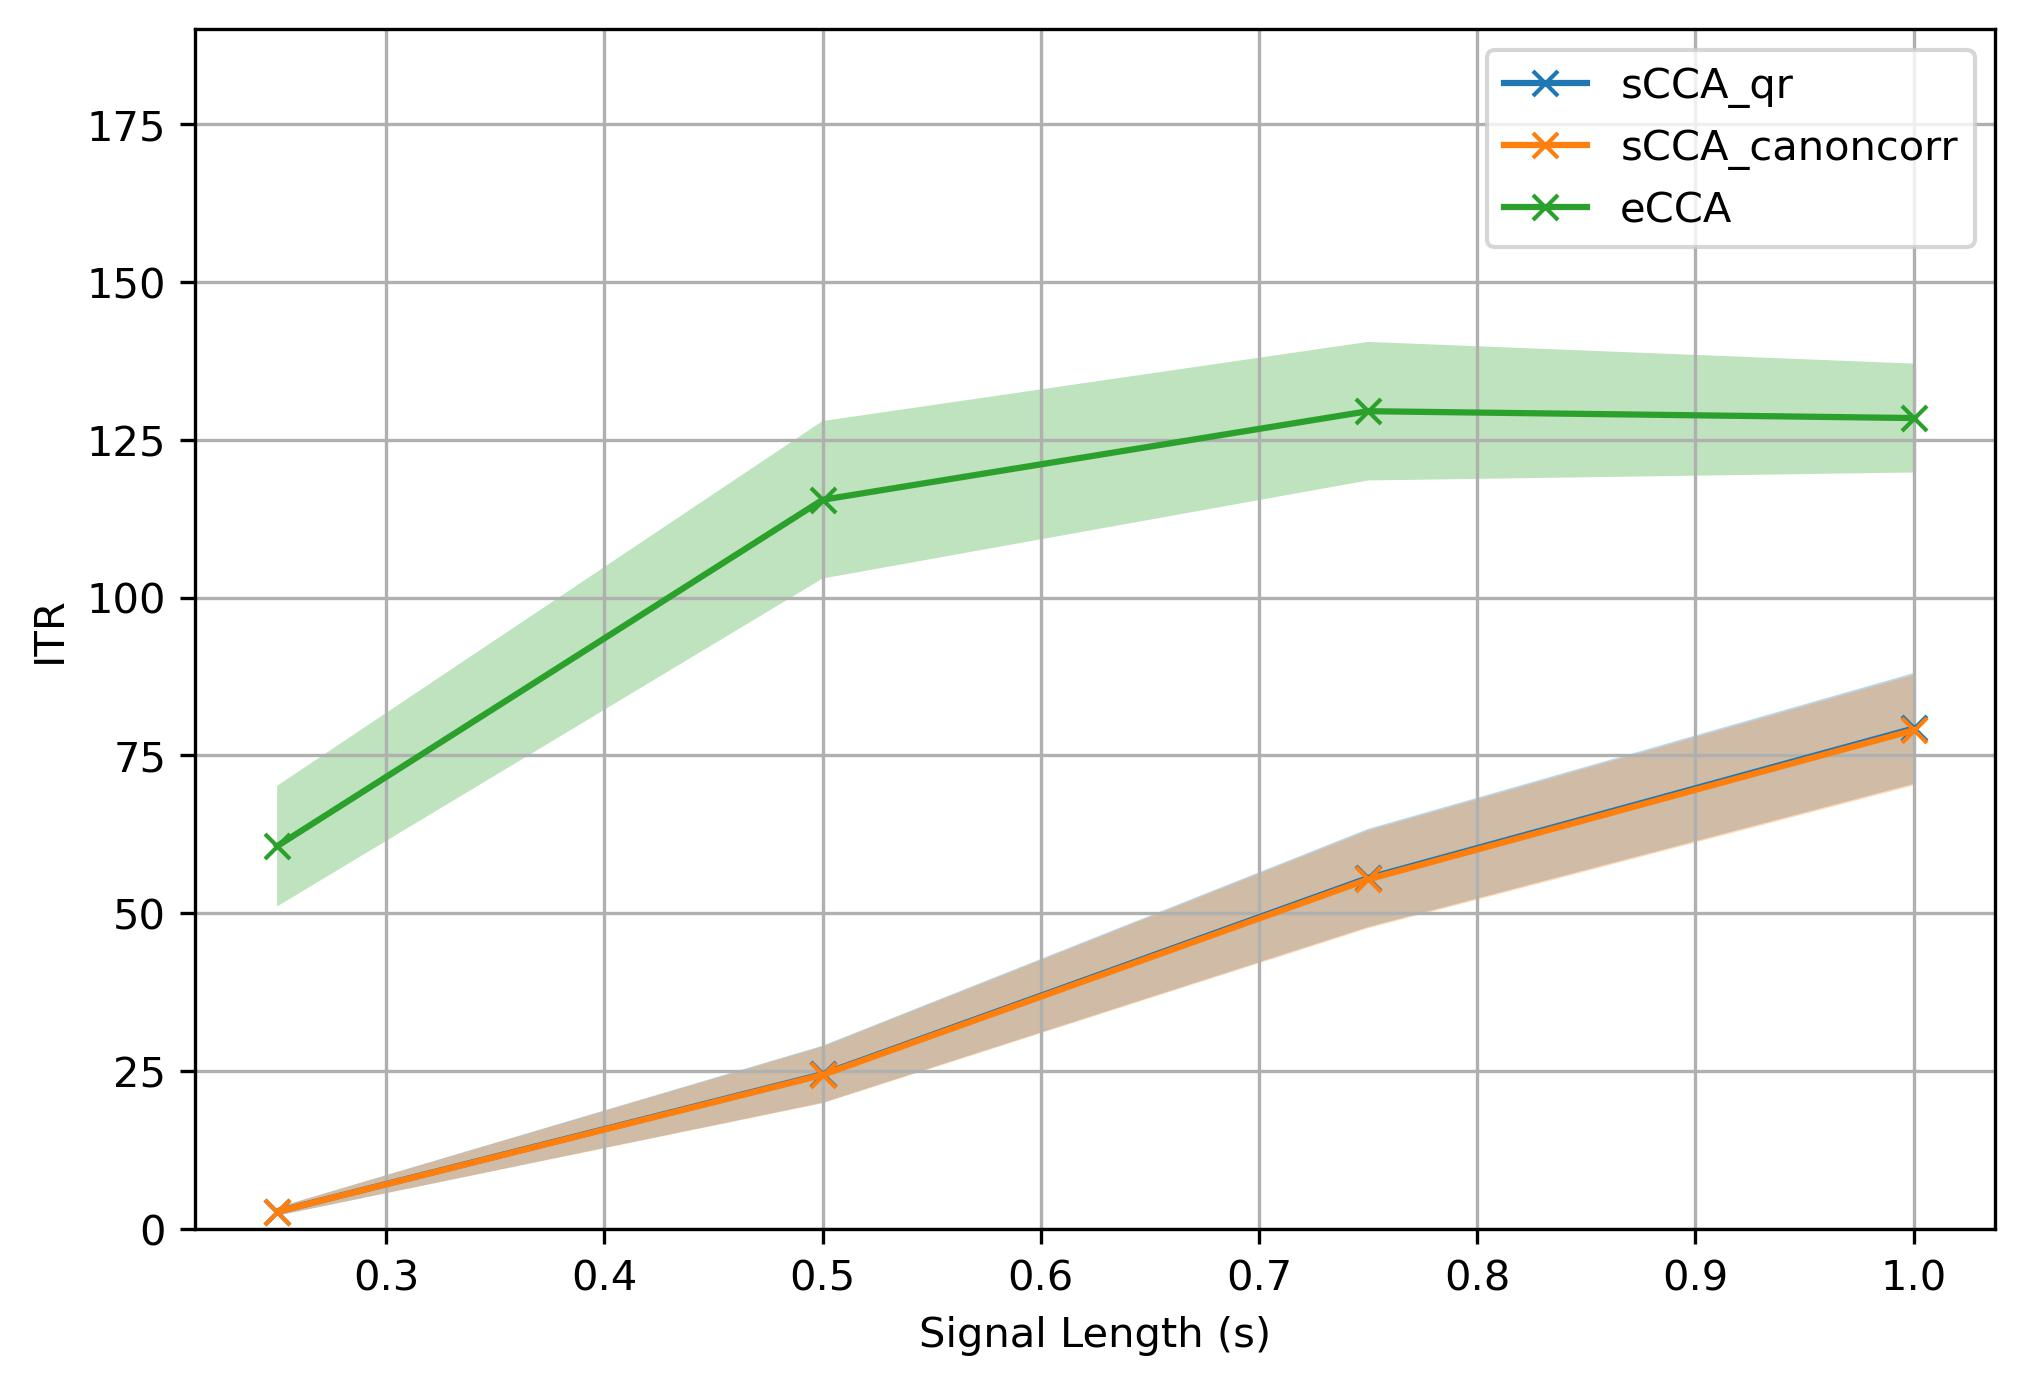
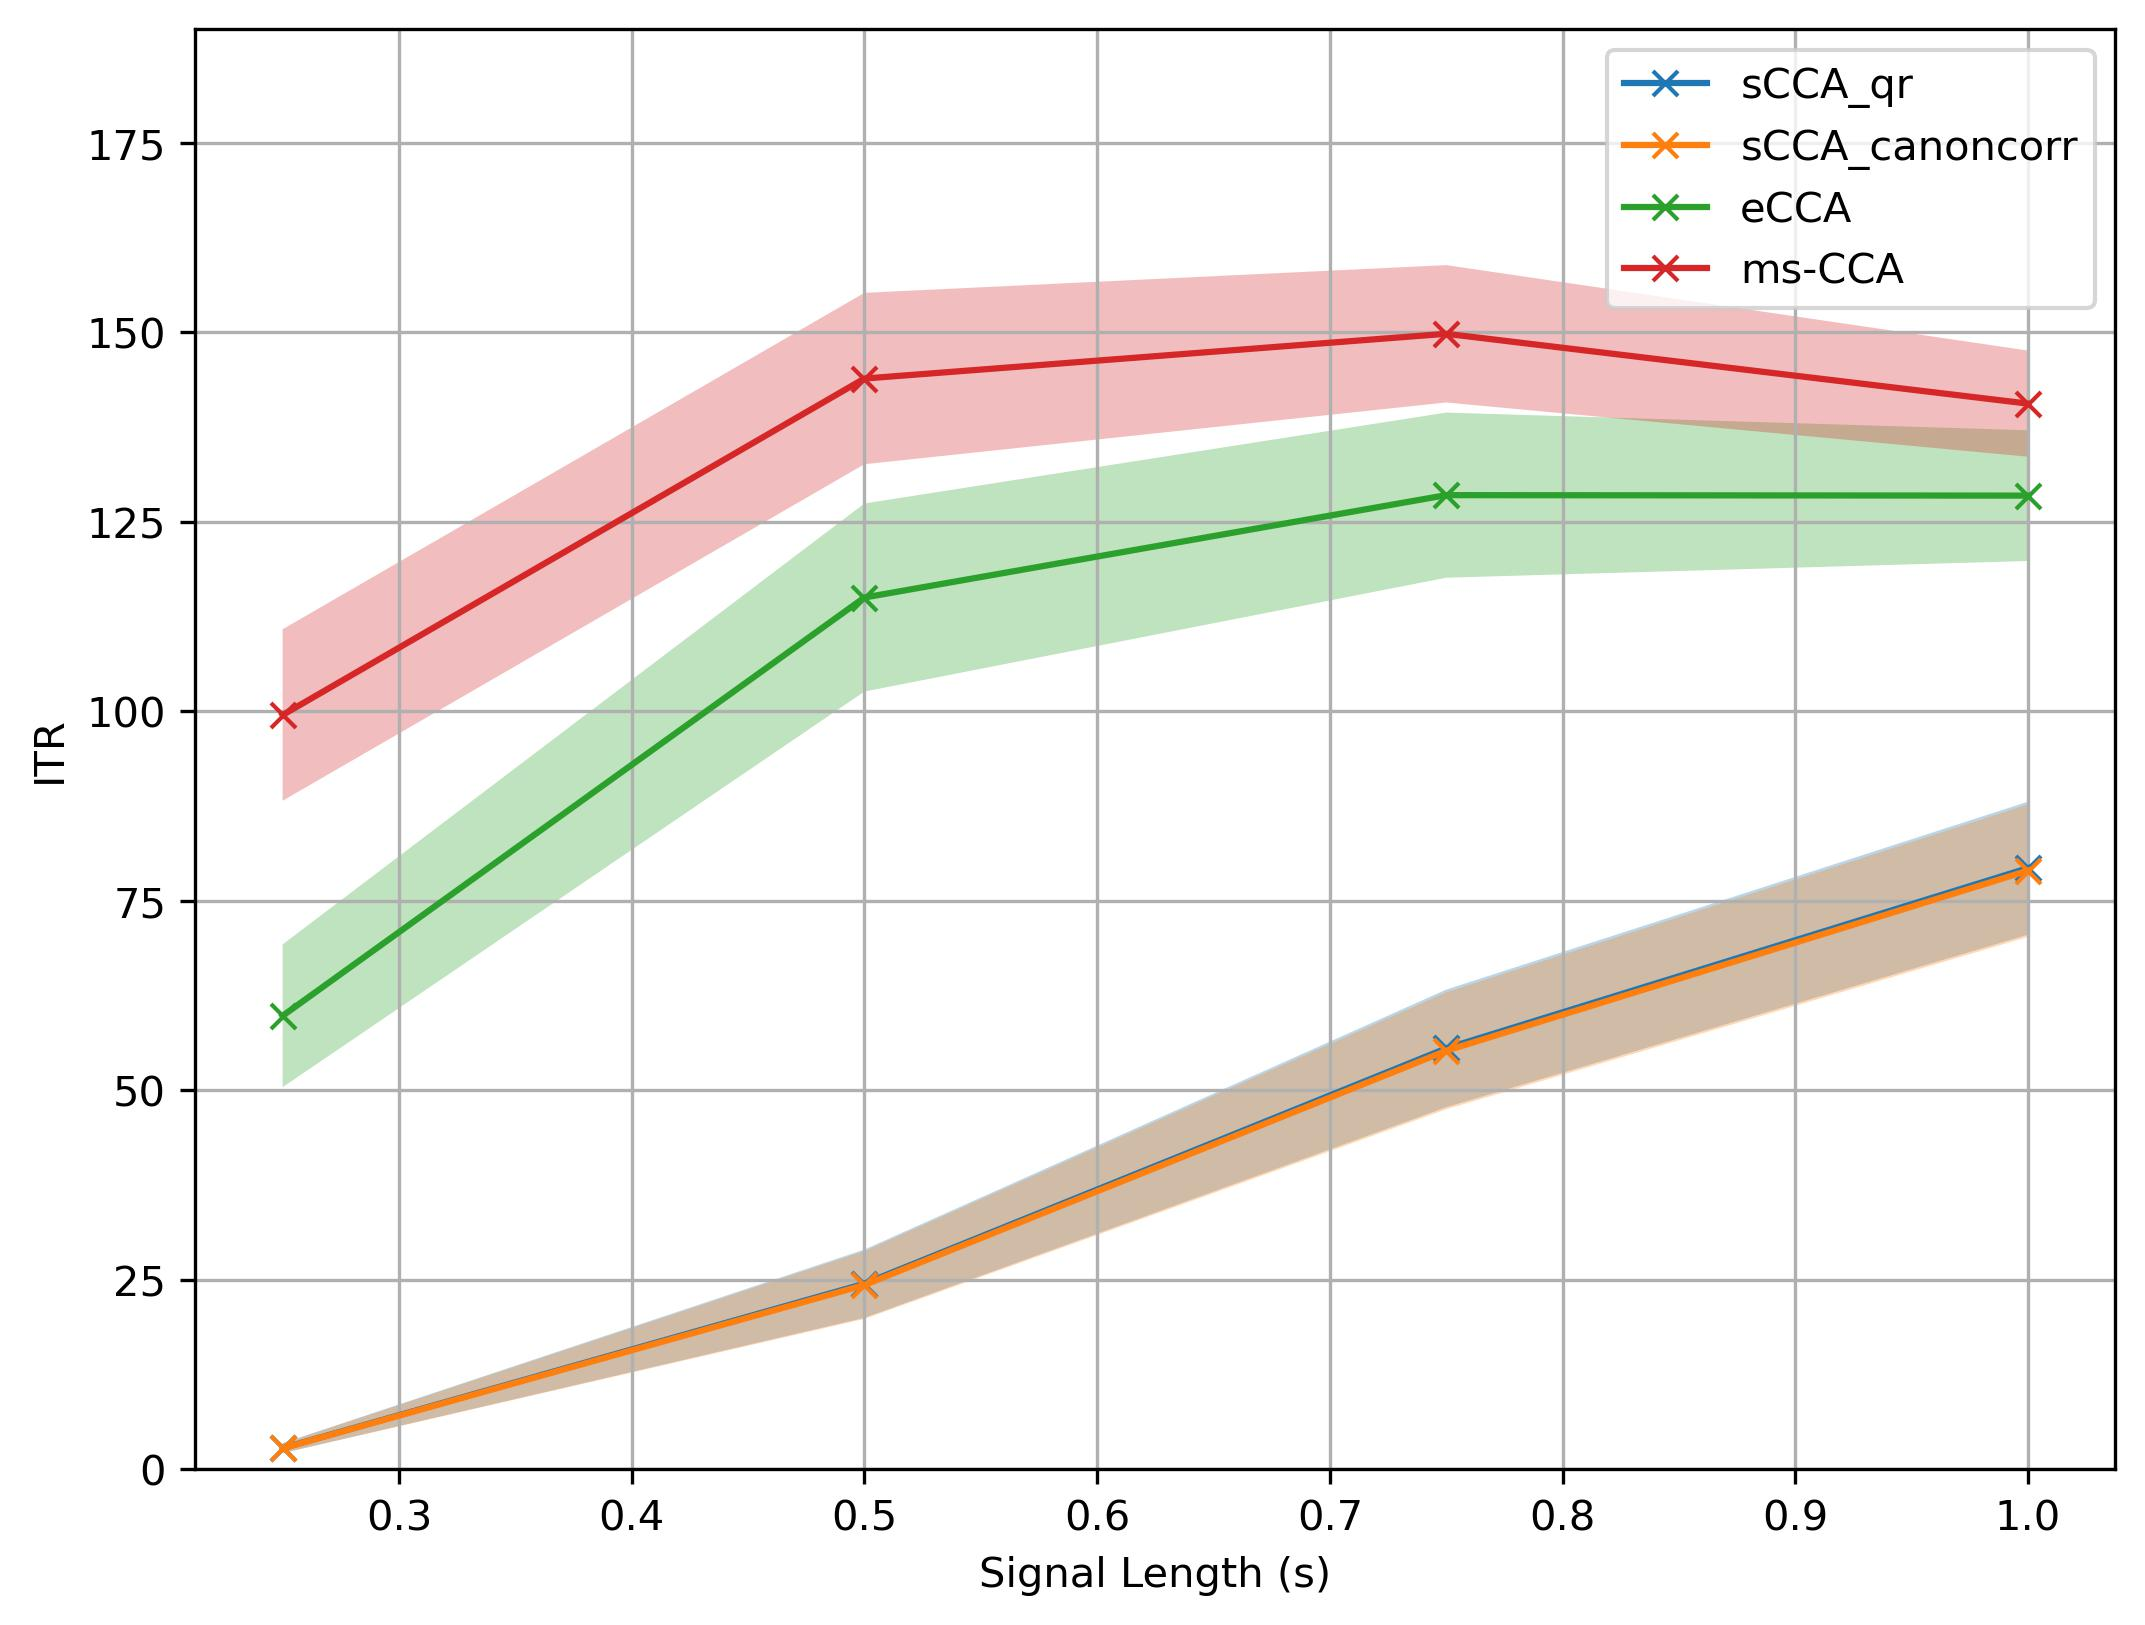
Add mscca

diff --git a/SSVEPAnalysisToolbox/algorithms/cca.py b/SSVEPAnalysisToolbox/algorithms/cca.py
@@ -699,3 +699,113 @@ class ECCA(BaseModel):
                                                         np.sign(r4_single) * np.square(r4_single)))) for r1_single, r2_single, r3_single, r4_single in zip(r1, r2, r3, r4)]
         
         return Y_pred
+
+class MSCCA(BaseModel):
+    """
+    ms-CCA
+    """
+    def __init__(self,
+                 n_neighbor: int = 12,
+                 n_component: int = 1,
+                 n_jobs: Optional[int] = None,
+                 weights_filterbank: Optional[List[float]] = None):
+        """
+        Special parameter
+        ------------------
+        n_neighbor: int
+            Number of neighbors considered for computing spatical filter
+        """
+        super().__init__(ID = 'ms-CCA',
+                         n_component = n_component,
+                         n_jobs = n_jobs,
+                         weights_filterbank = weights_filterbank)
+        self.n_neighbor = n_neighbor
+        
+        self.model['U'] = None
+        self.model['V'] = None
+        
+    def __copy__(self):
+        copy_model = MSCCA(n_component = self.n_component,
+                            n_jobs = self.n_jobs,
+                            weights_filterbank = self.model['weights_filterbank'])
+        copy_model.model = deepcopy(self.model)
+        return copy_model
+        
+    def fit(self,
+            X: Optional[List[ndarray]] = None,
+            Y: Optional[List[int]] = None,
+            ref_sig: Optional[List[ndarray]] = None):
+        if ref_sig is None:
+            raise ValueError('eCCA requires sine-cosine-based reference signal')
+        if Y is None:
+            raise ValueError('eCCA requires training label')
+        if X is None:
+            raise ValueError('eCCA requires training data')
+        
+        # save reference
+        self.model['ref_sig'] = ref_sig
+
+        # generate template 
+        template_sig = gen_template(X, Y) # List of shape: (stimulus_num,); 
+                                           # Template shape: (filterbank_num, channel_num, signal_len)
+        self.model['template_sig'] = template_sig
+
+        # spatial filters of template and reference: U3 and V3
+        #   U3: (filterbank_num * stimulus_num * channel_num * n_component)
+        #   V3: (filterbank_num * stimulus_num * harmonic_num * n_component)
+        filterbank_num = template_sig[0].shape[0]
+        stimulus_num = len(template_sig)
+        channel_num = template_sig[0].shape[1]
+        harmonic_num = ref_sig[0].shape[0]
+        n_component = self.n_component
+        n_neighbor = self.n_neighbor
+        # construct reference and template signals for ms-cca
+        d0 = int(np.floor(n_neighbor/2))
+        ref_sig_mscca = []
+        template_sig_mscca = []
+        for class_idx in range(1,stimulus_num+1):
+            if class_idx <= d0:
+                start_idx = 0
+                end_idx = n_neighbor
+            elif class_idx > d0 and class_idx < (stimulus_num-d0+1):
+                start_idx = class_idx - d0 - 1
+                end_idx = class_idx + (n_neighbor-d0-1)
+            else:
+                start_idx = stimulus_num - n_neighbor
+                end_idx = stimulus_num
+            ref_sig_tmp = [ref_sig[i] for i in range(start_idx, end_idx)]
+            ref_sig_mscca.append(np.concatenate(ref_sig_tmp, axis = -1))
+            template_sig_tmp = [template_sig[i] for i in range(start_idx, end_idx)]
+            template_sig_mscca.append(np.concatenate(template_sig_tmp, axis = -1))
+        U = np.zeros((filterbank_num, stimulus_num, channel_num, n_component))
+        V = np.zeros((filterbank_num, stimulus_num, harmonic_num, n_component))
+        for filterbank_idx in range(filterbank_num):
+            U_tmp, V_tmp, _ = zip(*Parallel(n_jobs=self.n_jobs)(delayed(partial(canoncorr, force_output_UV = True))(X=template_sig_single[filterbank_idx,:,:].T, 
+                                                                                                            Y=ref_sig_single.T) 
+                                                        for template_sig_single, ref_sig_single in zip(template_sig_mscca,ref_sig_mscca)))
+            for stim_idx, (u, v) in enumerate(zip(U_tmp,V_tmp)):
+                U[filterbank_idx, stim_idx, :, :] = u[:channel_num,:n_component]
+                V[filterbank_idx, stim_idx, :, :] = v[:harmonic_num,:n_component]
+        self.model['U'] = U
+        self.model['V'] = V
+            
+        
+    def predict(self,
+                X: List[ndarray]) -> List[int]:
+        weights_filterbank = self.model['weights_filterbank']
+        if weights_filterbank is None:
+            weights_filterbank = [1 for _ in range(X[0].shape[0])]
+        weights_filterbank = np.expand_dims(np.array(weights_filterbank),1).T
+
+        ref_sig = self.model['ref_sig']
+        template_sig = self.model['template_sig']
+        U = self.model['U']
+        V = self.model['V']
+
+        r1 = Parallel(n_jobs=self.n_jobs)(delayed(partial(_r_cca_canoncorr_withUV, Y=ref_sig, U=U, V=V))(X=a) for a in X)
+        r2 = Parallel(n_jobs=self.n_jobs)(delayed(partial(_r_cca_canoncorr_withUV, Y=template_sig, U=U, V=U))(X=a) for a in X)
+        
+        Y_pred = [int( np.argmax( weights_filterbank @ (np.sign(r1_single) * np.square(r1_single) + 
+                                                        np.sign(r2_single) * np.square(r2_single)))) for r1_single, r2_single in zip(r1, r2)]
+        
+        return Y_pred

diff --git a/demo/CCA_benchmarkdataset.py b/demo/CCA_benchmarkdataset.py
@@ -4,7 +4,7 @@ import sys
 sys.path.append('..')
 from SSVEPAnalysisToolbox.datasets.benchmarkdataset import BenchmarkDataset
 from SSVEPAnalysisToolbox.utils.benchmarkpreprocess import preprocess, filterbank, suggested_ch, suggested_weights_filterbank
-from SSVEPAnalysisToolbox.algorithms.cca import SCCA_qr, SCCA_canoncorr, ECCA
+from SSVEPAnalysisToolbox.algorithms.cca import SCCA_qr, SCCA_canoncorr, ECCA, MSCCA
 from SSVEPAnalysisToolbox.evaluator.baseevaluator import BaseEvaluator, gen_trials_onedataset_individual_diffsiglen
 from SSVEPAnalysisToolbox.evaluator.performance import cal_performance_onedataset_individual_diffsiglen
 from SSVEPAnalysisToolbox.utils.io import savedata, loaddata
@@ -26,6 +26,7 @@ dataset_container = [
 
 # Prepare train and test trials
 tw_seq = [i*0.25 for i in range(1,4+1,1)]
+# tw_seq = [4]
 trial_container = gen_trials_onedataset_individual_diffsiglen(dataset_idx = 0,
                                                              tw_seq = tw_seq,
                                                              dataset_container = dataset_container,
@@ -41,7 +42,8 @@ weights_filterbank = suggested_weights_filterbank()
 model_container = [
                    SCCA_qr(weights_filterbank = weights_filterbank),
                    SCCA_canoncorr(weights_filterbank = weights_filterbank),
-                   ECCA(weights_filterbank = weights_filterbank)
+                   ECCA(weights_filterbank = weights_filterbank),
+                   MSCCA(n_neighbor = 12, weights_filterbank = weights_filterbank)
                   ]
 
 # Evaluate models

diff --git a/demo/CCA_betadataset.py b/demo/CCA_betadataset.py
@@ -4,7 +4,7 @@ import sys
 sys.path.append('..')
 from SSVEPAnalysisToolbox.datasets.betadataset import BETADataset
 from SSVEPAnalysisToolbox.utils.benchmarkpreprocess import preprocess, filterbank, suggested_ch, suggested_weights_filterbank
-from SSVEPAnalysisToolbox.algorithms.cca import SCCA_qr, SCCA_canoncorr, ECCA
+from SSVEPAnalysisToolbox.algorithms.cca import SCCA_qr, SCCA_canoncorr, ECCA, MSCCA
 from SSVEPAnalysisToolbox.evaluator.baseevaluator import BaseEvaluator, gen_trials_onedataset_individual_diffsiglen
 from SSVEPAnalysisToolbox.evaluator.performance import cal_performance_onedataset_individual_diffsiglen
 from SSVEPAnalysisToolbox.utils.io import savedata, loaddata
@@ -41,7 +41,8 @@ weights_filterbank = suggested_weights_filterbank()
 model_container = [
                    SCCA_qr(weights_filterbank = weights_filterbank),
                    SCCA_canoncorr(weights_filterbank = weights_filterbank),
-                   ECCA(weights_filterbank = weights_filterbank)
+                   ECCA(weights_filterbank = weights_filterbank),
+                   MSCCA(n_neighbor = 12, weights_filterbank = weights_filterbank)
                   ]
 
 # Evaluate models
